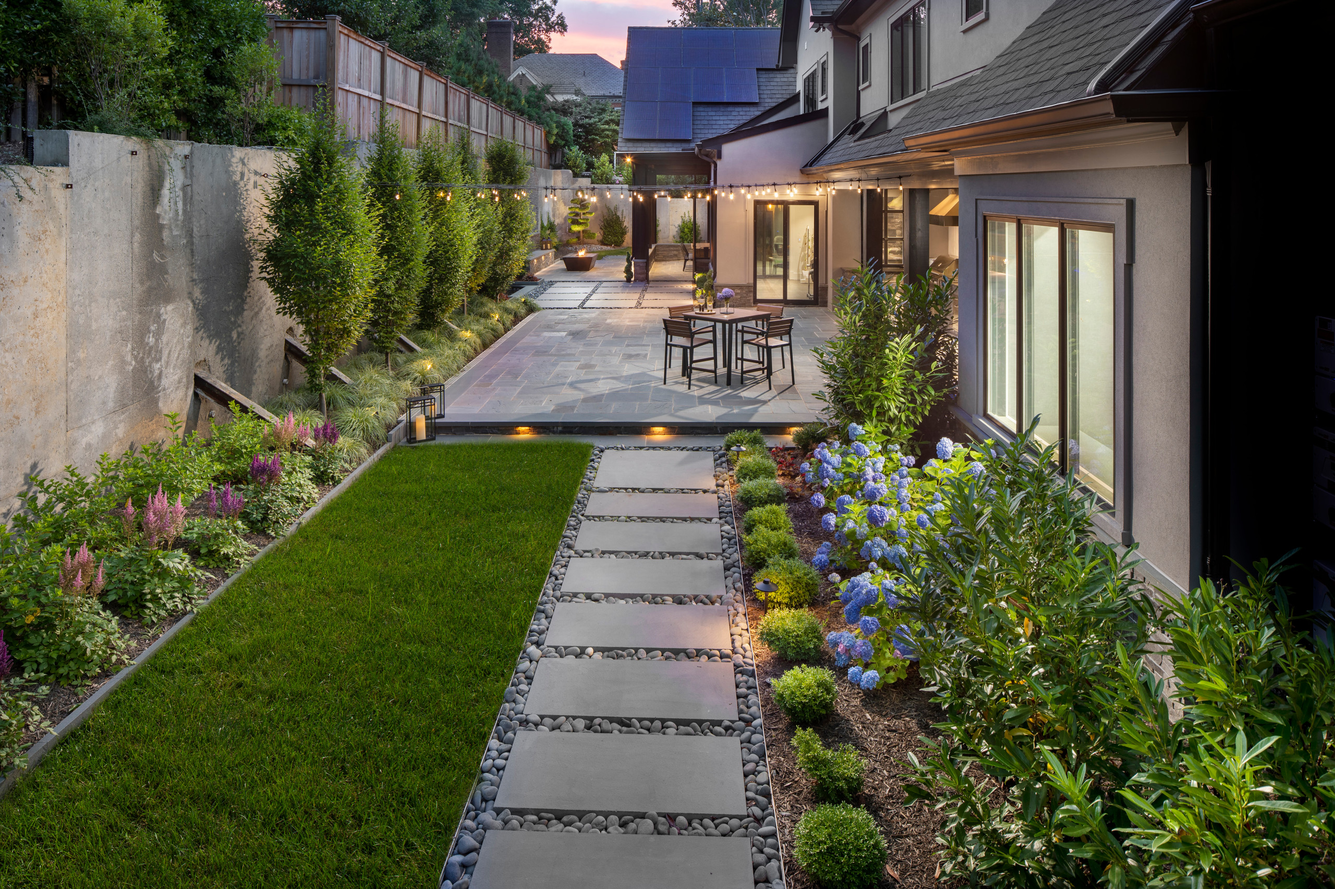
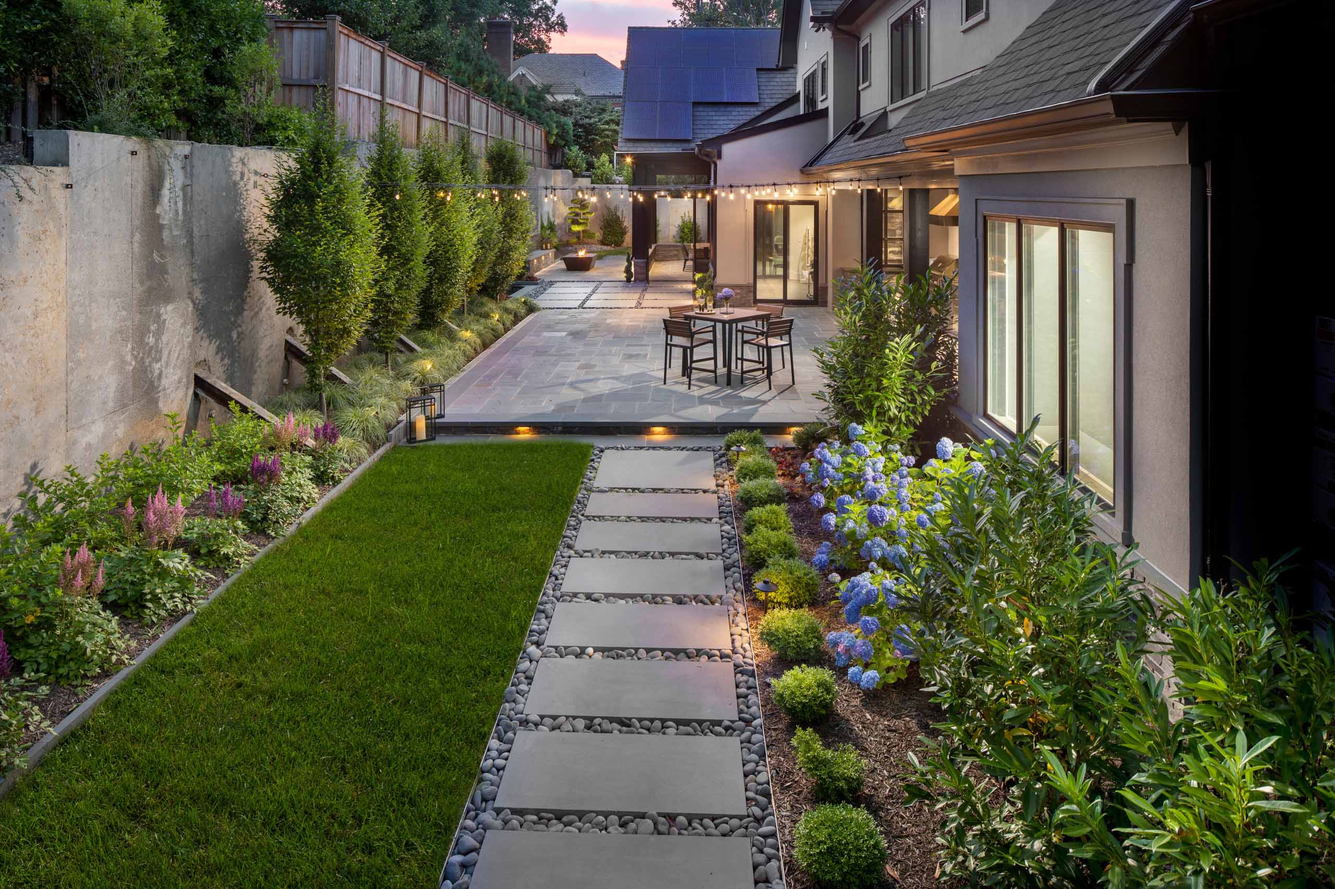
Added performance enhancements to the website

diff --git a/capstone-project/src/components/Gardening.jsx b/capstone-project/src/components/Gardening.jsx
@@ -36,6 +36,8 @@ const Gardening = () => {
                     src={GardenPicOne}
                     className="gardening image"
                     alt="Plants with garden filler"
+                    width="500"
+                    height="300"
                   />
                   <figcaption className="figcaption">
                     <h2 className="figure-header">Planting</h2>
